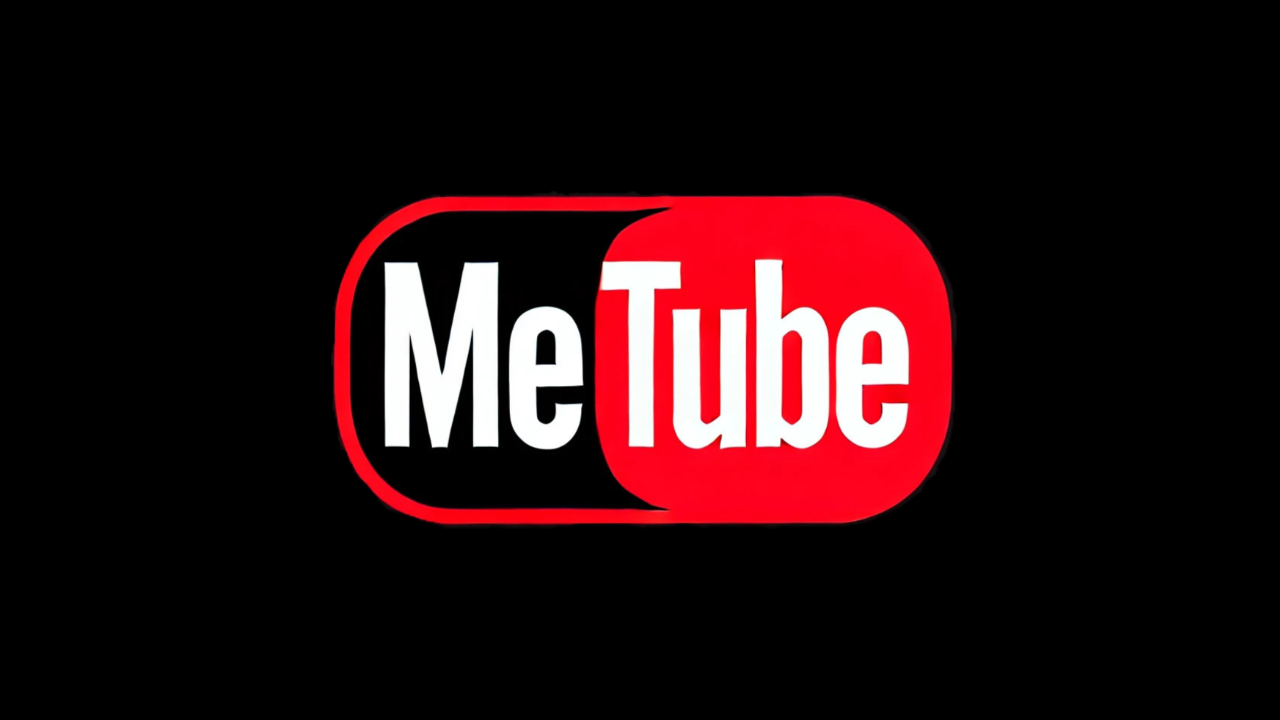
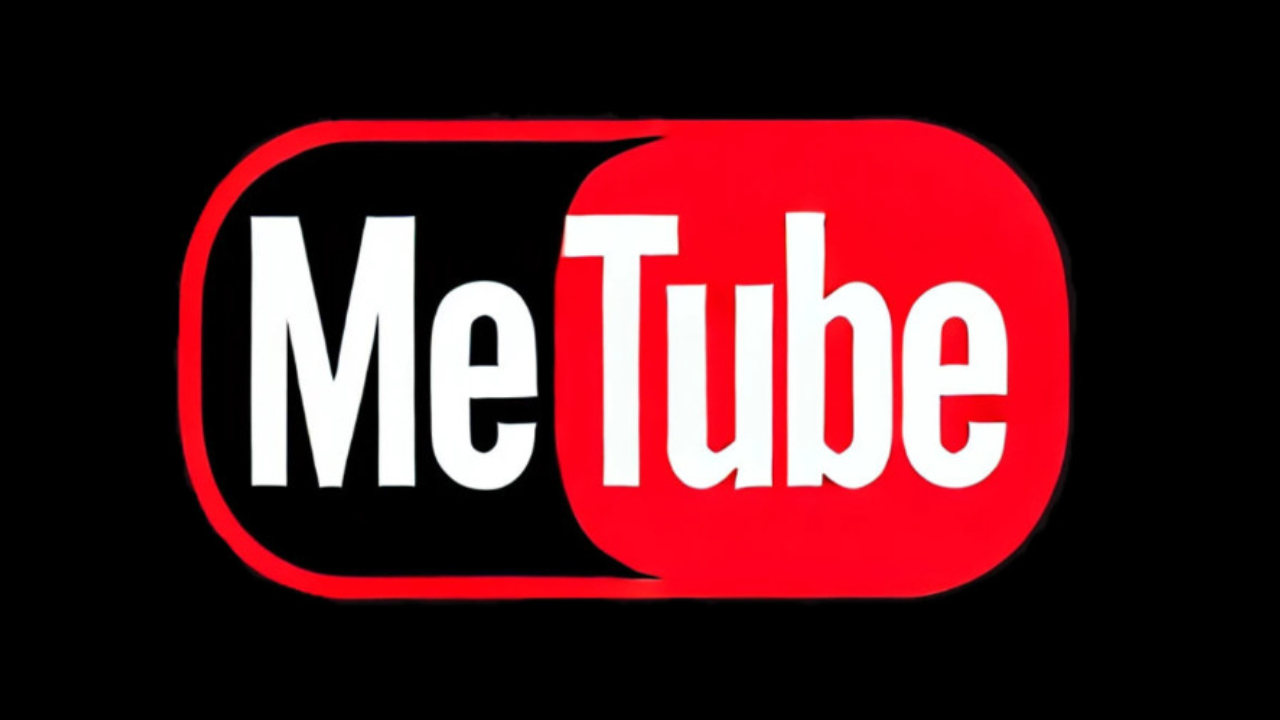
ok now done

Changed region(s): [[0.125, 0.1528, 0.8438, 0.8556]]

diff --git a/src/components/Header.jsx b/src/components/Header.jsx
@@ -16,7 +16,7 @@ const Header = () => {
        <img onClick={()=>handleToggle()} className='h-20'
        src='https://res.cloudinary.com/practicaldev/image/fetch/s--pwlGUbeq--/c_limit%2Cf_auto%2Cfl_progressive%2Cq_66%2Cw_880/https://dev-to-uploads.s3.amazonaws.com/uploads/articles/gt5xtiacq4sjqmxuz2d7.gif'/>
        <img 
-        className='w-52 h-[100px] -mt-3'src={meTUBE}/>
+        className='w-44 h-[80px] ml-2'src={meTUBE}/>
       </div>
       <div className='flex col-span-10'>
         <input 
